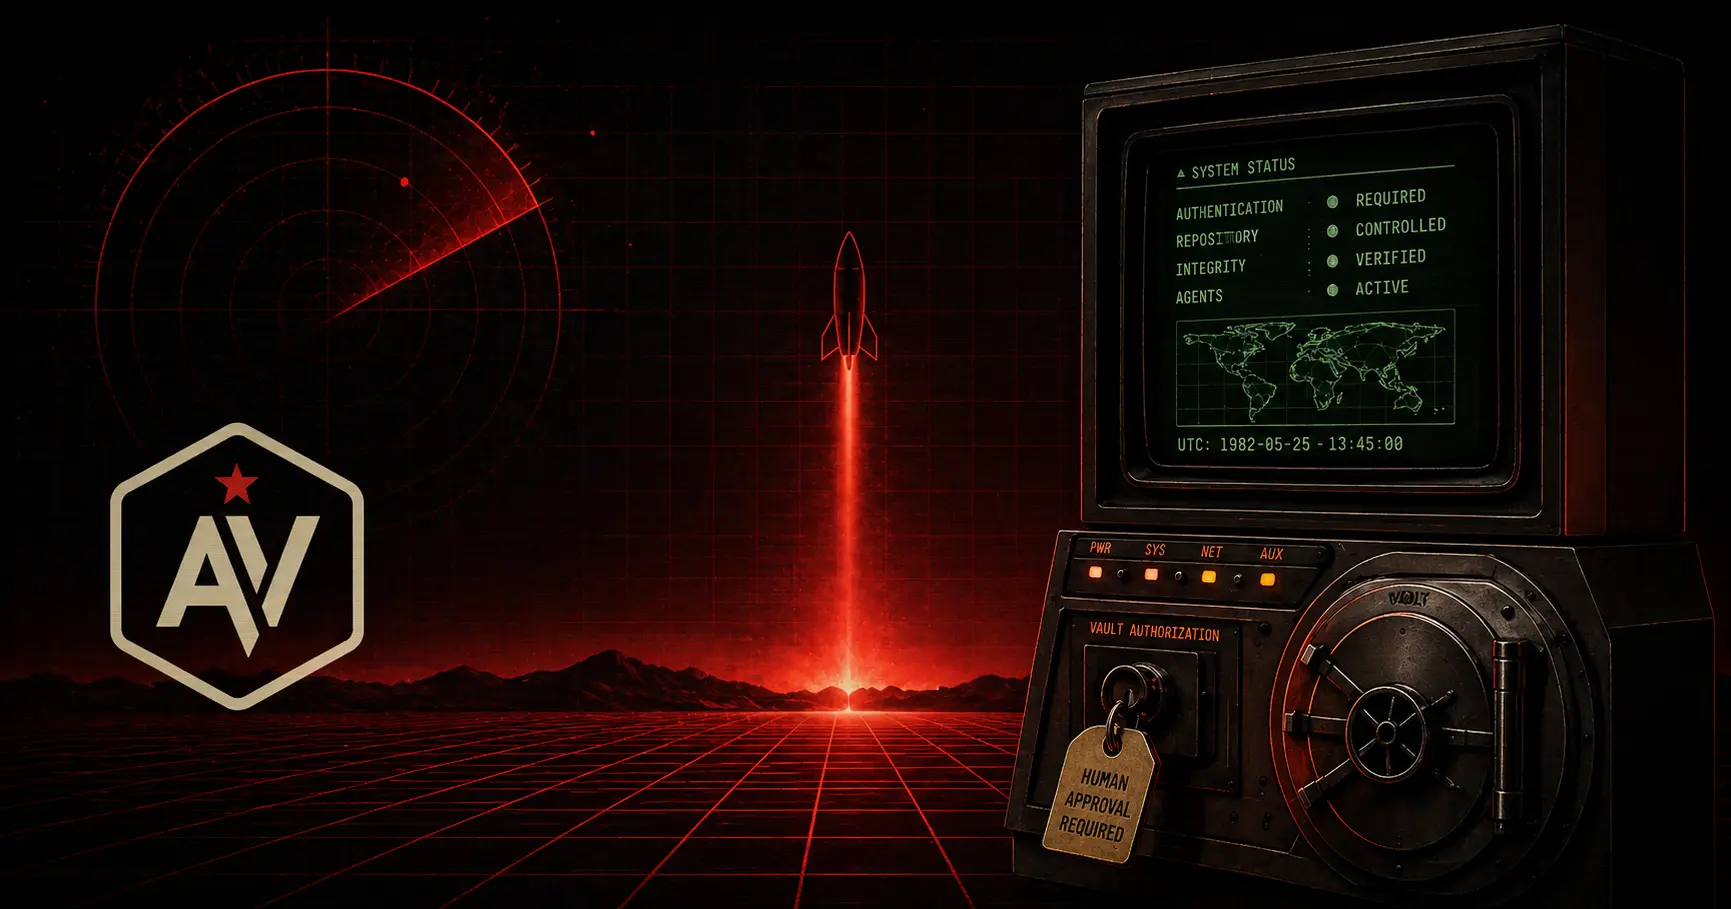
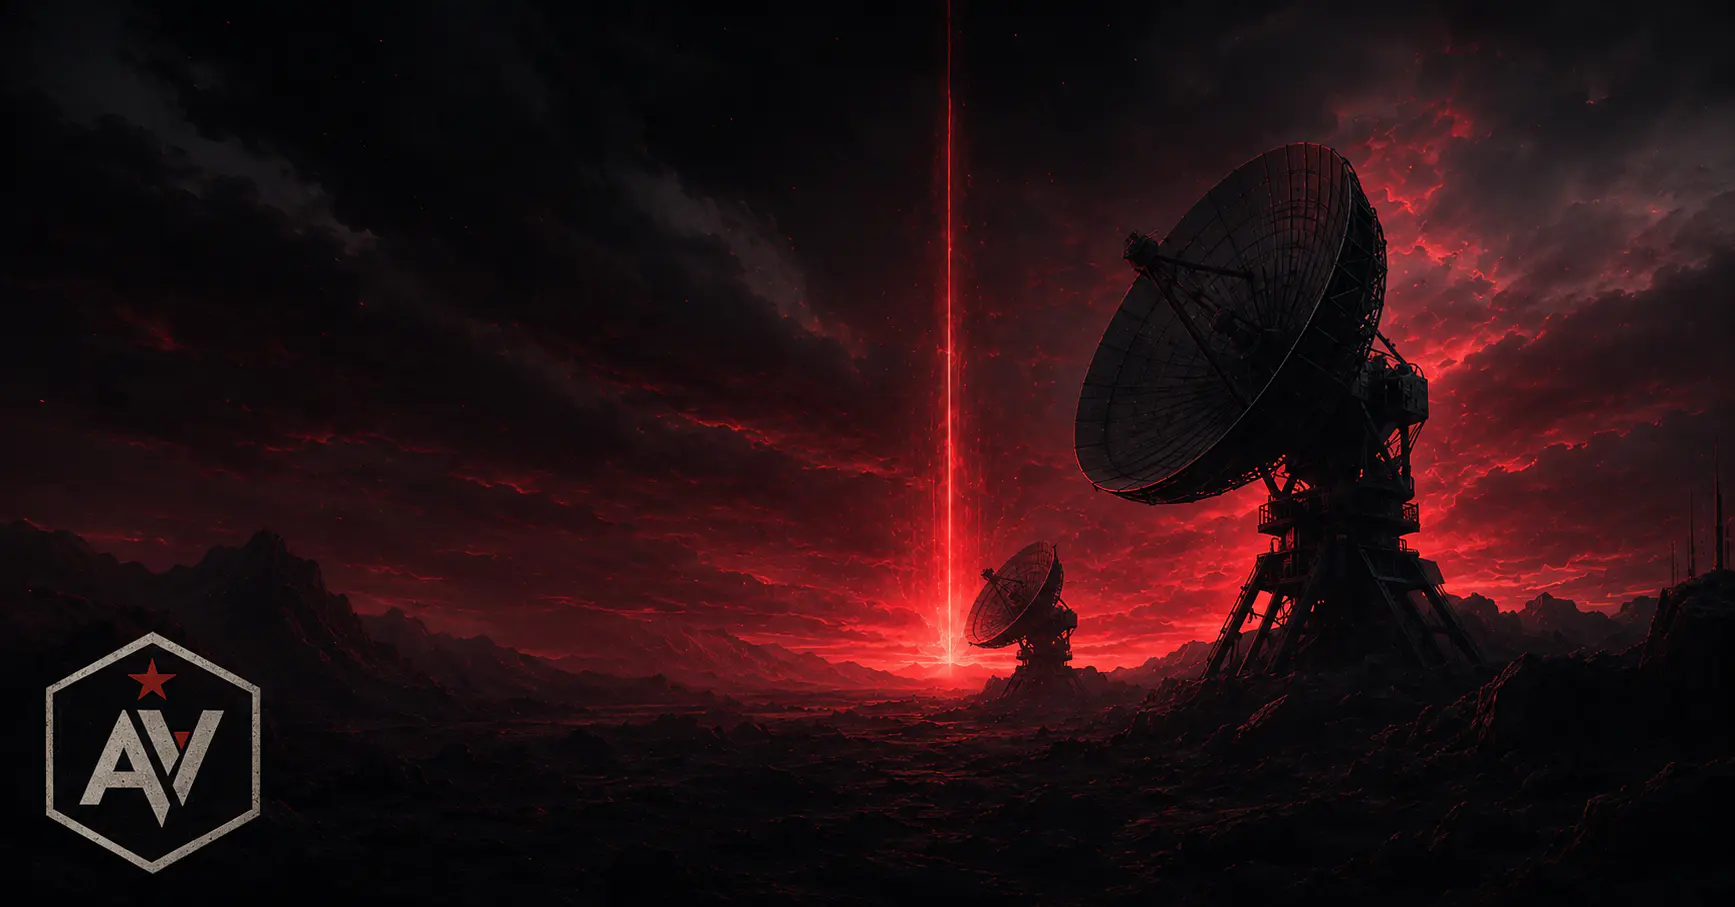
WIP

diff --git a/profile/README.md b/profile/README.md
@@ -17,7 +17,7 @@ $ curl -fsSL https://automicvault.com/install.sh | sh -x
 # ^^ downloads the DMG, lets Gatekeeper inspect it, checks our Team ID, then
 #    copies the app into /Applications
 
-+ /usr/bin/curl -sSfL https://automicvault.com/AutomicVault.dmg -o "$tmp/av.dmg"
++ /usr/bin/curl -sSfL https://automicvault.com/av.dmg -o "$tmp/av.dmg"
 + /usr/sbin/spctl -a -vv --type open "$tmp/av.dmg"
 + /usr/bin/codesign -dv --verbose=4 "$app"
 + /usr/bin/ditto "$app" "/Applications/$(basename "$app")"